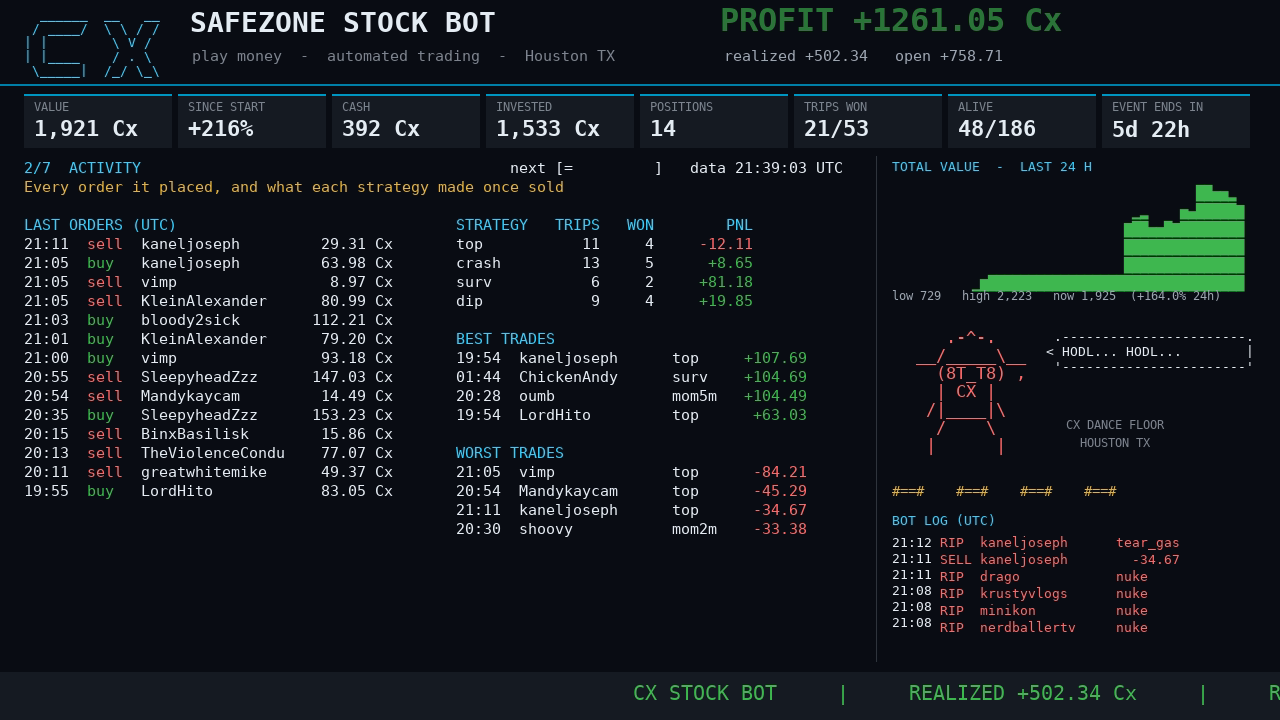
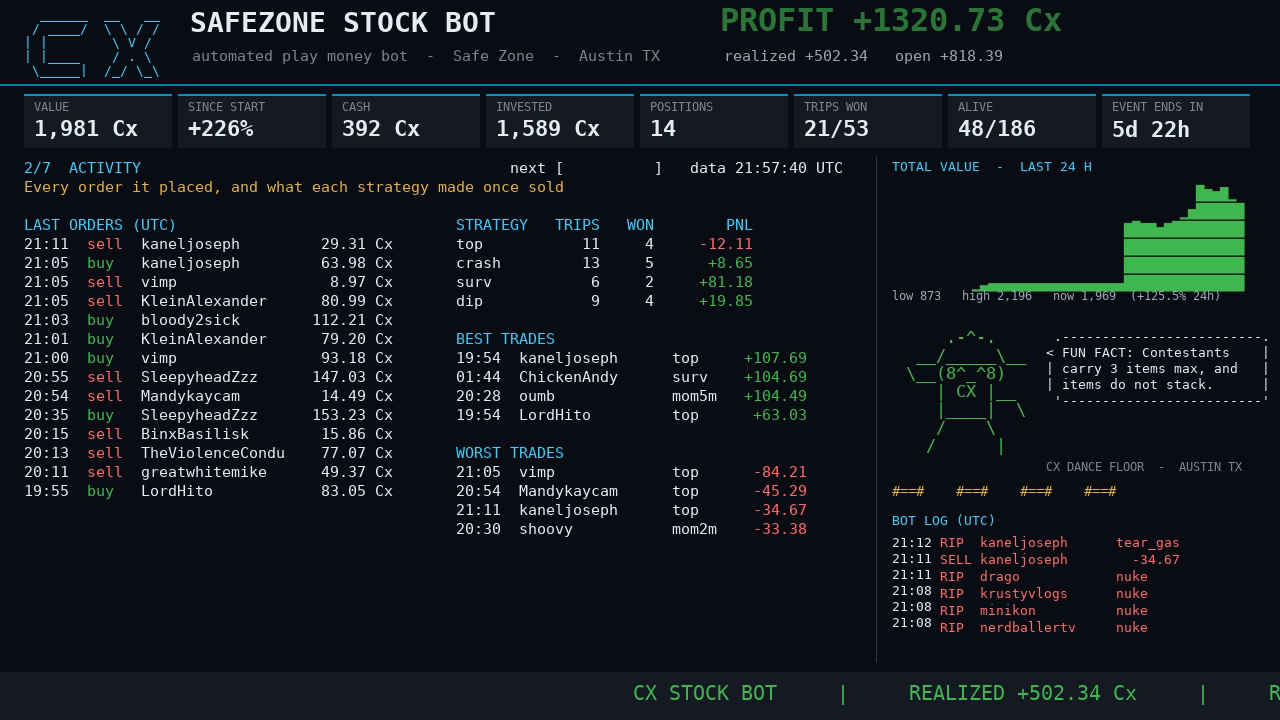
Have the CX mascot tell fun facts about Ice Poseidon, Cx and Safe Zone
38 sourced facts (Wikipedia, iceposeidon.com, KXAN), topics interleaved, one
every 20 s in a 5-line bubble when nothing happened for 2 min. The event is in
Austin, Texas (official site), not Houston: subtitle, floor label and mascot
line fixed. check.mjs proves each fact is shown whole.

diff --git a/README.md b/README.md
@@ -100,10 +100,12 @@ restarting after any drop. Measured on a 1 GB VPS: 8% of a core and 119 MB at 12
 - **Left**: the current page, a new one every 20 s (5, plus one STATUS page per 34 alive contestants). The header line
   fills a bar until the next page, the line under it says what the page shows.
 - **Right**: the total value over 24 h as a block chart (green when up over the window, red when down), with low, high
-  and now; the CX mascot in a cowboy hat (Houston), dancing on a disco floor, 4 poses a second, happy and green when
-  the value is up 0.5% over 15 min, sad and red when down 0.5%, cool and cyan otherwise, with a speech bubble that
-  announces its last buy or sell (net PnL), a death or a revive within 2 min; the bot log (its orders, deaths,
-  revives and refused pumps, newest first).
+  and now; the CX mascot in a cowboy hat (the event is in Austin, Texas), dancing on a disco floor, 4 poses a second,
+  happy and green when the value is up 0.5% over 15 min, sad and red when down 0.5%, cool and cyan otherwise, with a
+  speech bubble that announces its last buy or sell (net PnL), a death or a revive within 2 min, and otherwise tells
+  a fun fact every 20 s (38 of them in `FUN_FACTS`, `backtest.mjs`: Ice Poseidon's career, the Cx community, Safe Zone
+  rules, this market, the mascot; taken from Wikipedia, iceposeidon.com and KXAN on 18/10) or a line for its mood;
+  the bot log (its orders, deaths, revives and refused pumps, newest first).
 - **Bottom**: a scrolling ticker (PnL, 5-min movers, last orders, alive count).
 
 1. Server (ffmpeg + DejaVu fonts): copy `stream/run.sh` to `~/szdash/`, put the ingest URL and stream key in
@@ -119,7 +121,7 @@ restarting after any drop. Measured on a 1 GB VPS: 8% of a core and 119 MB at 12
 | 5 CONTESTANTS | contestants in danger (under 35% HP or outside the zone) and the 18 last deaths (with what killed them) and revives, newest first |
 | 6 and on, STATUS | every alive contestant, weakest first, 34 per page: HP bar, HP, sigil, and the S P D O L R flags below |
 
-The seven pages on 18/10 around 21:40 UTC (48 alive, two STATUS pages):
+The seven pages on 18/10 around 21:58 UTC (48 alive, two STATUS pages, the mascot telling fun facts):
 
 ![Stream page 1, portfolio](docs/screenshots/stream-page-1.png)
 
@@ -332,7 +334,7 @@ log: `start`, `restart`, `watchdog`, `stock-market/buy|sell` (with `why`), `kick
 lost session, long API block, strategy switched off or on, new params, daily PnL.
 
 `node check.mjs` must print `check ok` after any change: replays, tuners, kill-switch tally, watchdog, health
-decoder, revives (dead until revived, dead again after a new death), the top basket's pump filter, chat and stream text (every alive contestant on a STATUS page; basket tracker, value chart, mascot mood, speech bubble, bot log), cookie sorter, engine loop scheduling (no
+decoder, revives (dead until revived, dead again after a new death), the top basket's pump filter, chat and stream text (every alive contestant on a STATUS page; basket tracker, value chart, mascot mood, speech bubble, every fun fact shown whole, bot log), cookie sorter, engine loop scheduling (no
 periodic job hidden behind a comment), each with a control case that must fail.
 
 ## Safety rules
